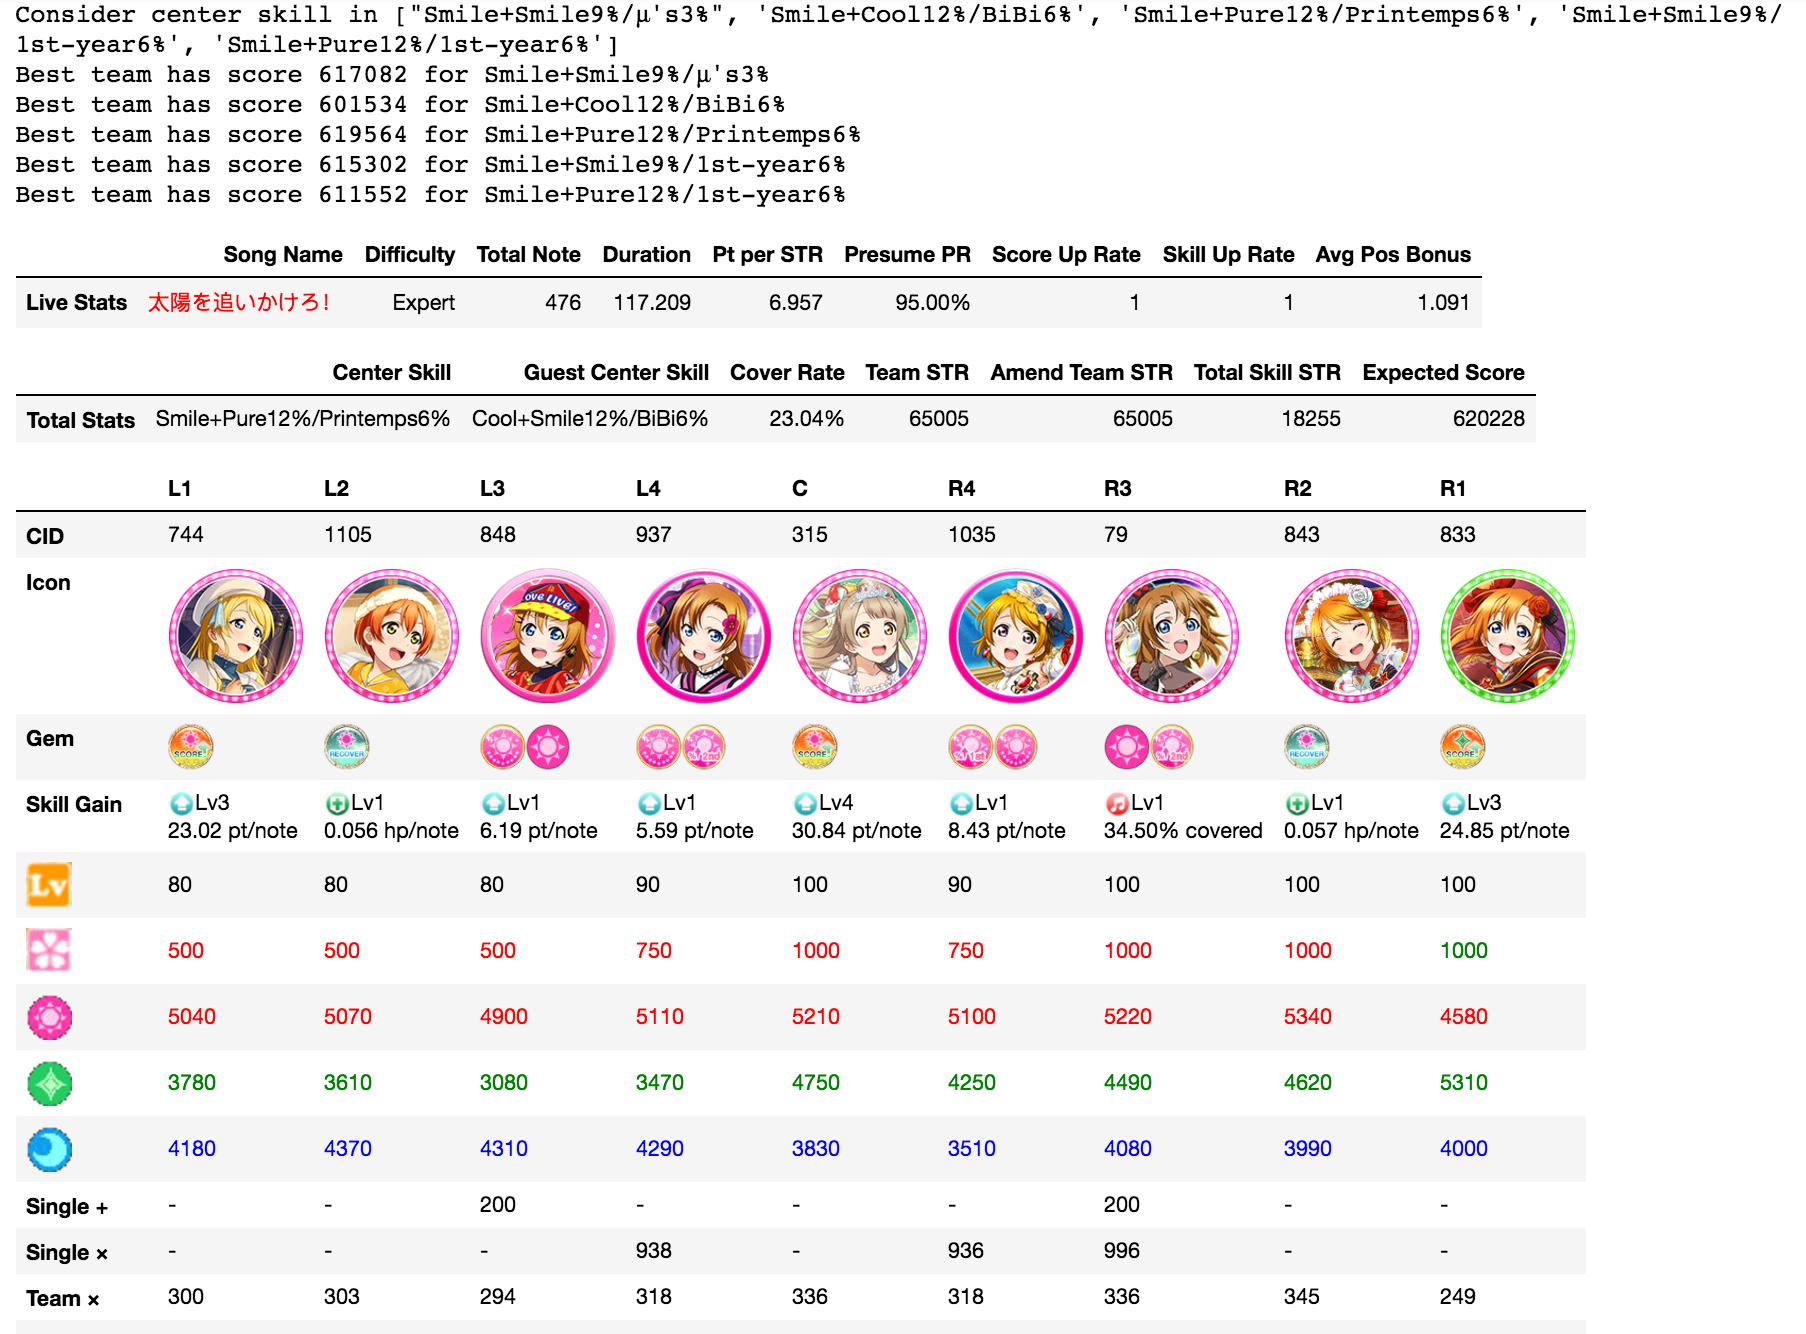
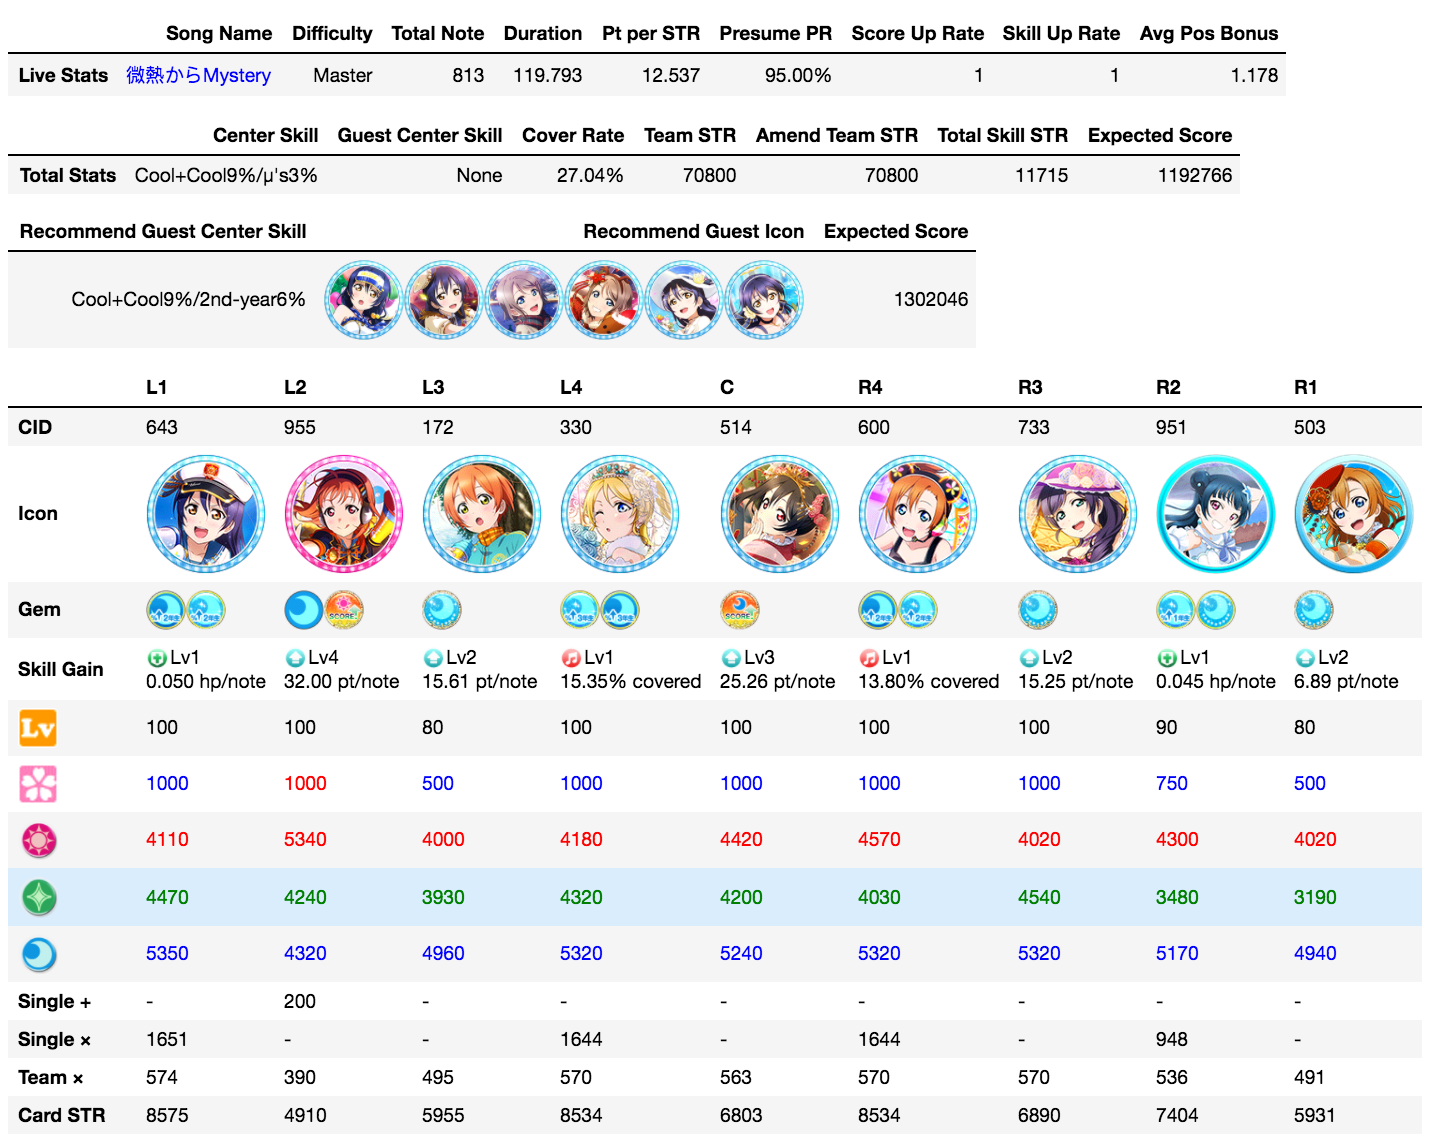
add new feature: show the best guest when the guest skill is not given

diff --git a/llatb/advanced/gem_allocator.py b/llatb/advanced/gem_allocator.py
@@ -1,9 +1,9 @@
 from collections import defaultdict
-import math, itertools, copy
+import math, itertools, copy, json
 from llatb.advanced.advanced_card import *
 from llatb.framework import Team
 from llatb.common.display import gem_slot_pic, view_cards
-from llatb.common.config import misc_path, icon_path, gem_path
+from llatb.common.config import card_archive_dir, misc_path, icon_path, gem_path
 from IPython.display import HTML
 
 class GemAllocator:
@@ -356,4 +356,35 @@ class GemAllocator:
 		df.index = ['<p>{0}</p>'.format(x) for x in ['L1', 'L2', 'L3', 'L4', 'C', 'R4', 'R3', 'R2', 'R1']]
 		html_main = df.transpose().to_html(escape=False)
 
-		return HTML(html_live+html_team+html_main)
+		html_recommend_guest = ''
+		if self.guest_cskill is None:
+			# find all UR center skill with same color as the live
+			raw_card_dict = {int(k):Card.fromJSON(v) for k,v in json.loads(open(card_archive_dir).read()).items()}
+			guest_candidate, cskill_list = defaultdict(lambda:[]), []
+			is_new = lambda cskill: all([not x.is_equal(cskill) for x in cskill_list])
+			for index, card in raw_card_dict.items():
+				if card.main_attr == self.live.attr and card.rarity == 'UR' and not card.promo:
+					guest_candidate[(card.cskill.base_attr, card.cskill.bonus_range)].append(card.card_id)
+					if is_new(card.cskill):
+						cskill_list.append(card.cskill)
+			# find the center skill that increases the team strength most
+			best_guest_cskill, max_strength = None, 0
+			for cskill in cskill_list:
+				strength = team.team_strength(guest_cskill=cskill)['team_total'][attr_list.index(self.live.attr)]
+				if strength > max_strength:
+					best_guest_cskill, max_strength = cskill, strength
+			recommend_guest = guest_candidate[(best_guest_cskill.base_attr, best_guest_cskill.bonus_range)]
+			# construct data frame to demonstrate best guest center skill information
+			df_guest = pd.DataFrame()
+			df_guest['Recommend Guest Center Skill'] = [str(best_guest_cskill)]
+			# list the cards that has the best guest center skill
+			guest_size, fmt = 50, '<div style="float:left;*padding-left:0;"><img src="{0}" width={1}></div>'
+			divs = [fmt.format(icon_path(card_id,idolized), guest_size) for card_id in recommend_guest for idolized in [False,True] ]
+			df_guest['Recommend Guest Icon'] = '<div style="width:{0}px;">{1}<div>'.format(len(divs)*guest_size, ''.join(divs))
+			# compute the expected score if the best guest center skill is present
+			setting = self.setting.copy()
+			setting['guest_cskill'] = best_guest_cskill
+			df_guest['Expected Score'] = team.compute_expected_total_score(self.live, setting)
+			html_recommend_guest = df_guest.to_html(escape=False, index=False)
+
+		return HTML(html_live+html_team+html_recommend_guest+html_main)
